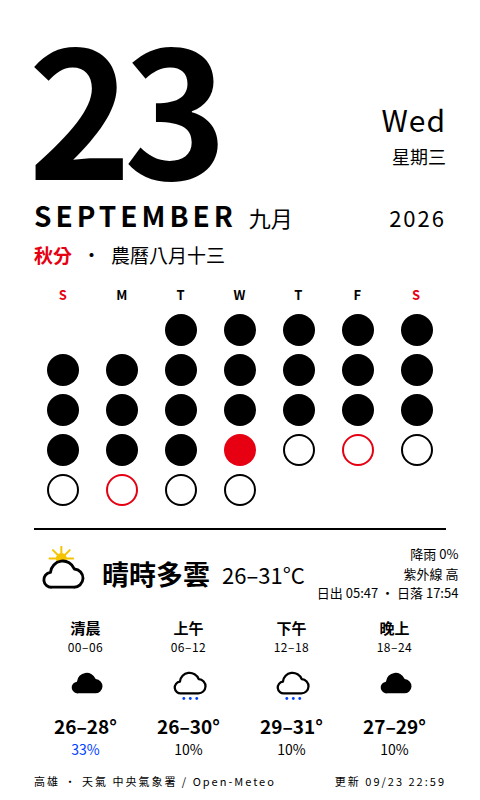
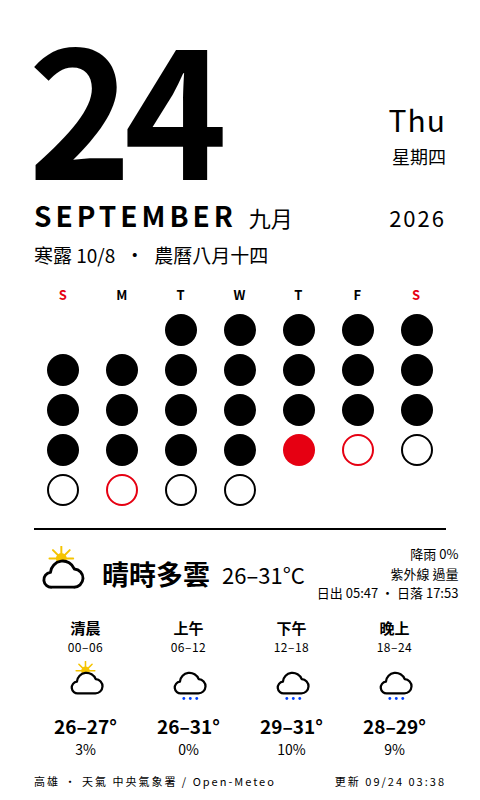
deploy: cf7d1051eb6821bc691ba0ade4beb12cdf9fe0ef

diff --git a/calendar.html b/calendar.html
@@ -47,16 +47,16 @@
 </style></head>
 <body><div class="page">
   <div class="head">
-    <div class="num">23</div>
-    <div class="wd"><div class="en">Wed</div><div class="zh">星期三</div></div>
+    <div class="num">24</div>
+    <div class="wd"><div class="en">Thu</div><div class="zh">星期四</div></div>
   </div>
   <div class="month"><span class="en">SEPTEMBER</span><span class="zh">九月</span><span class="yr">2026</span></div>
-  <div class="today"><span class="hl">秋分</span><span>·</span><span class="lunar">農曆八月十三</span></div>
-  <div class="grid"><div class="h we">S</div><div class="h">M</div><div class="h">T</div><div class="h">W</div><div class="h">T</div><div class="h">F</div><div class="h we">S</div><div class="dot empty"></div><div class="dot empty"></div><div class="dot past" title="1"></div><div class="dot past" title="2"></div><div class="dot past" title="3"></div><div class="dot past" title="4"></div><div class="dot past" title="5"></div><div class="dot past" title="6"></div><div class="dot past" title="7"></div><div class="dot past" title="8"></div><div class="dot past" title="9"></div><div class="dot past" title="10"></div><div class="dot past" title="11"></div><div class="dot past" title="12"></div><div class="dot past" title="13"></div><div class="dot past" title="14"></div><div class="dot past" title="15"></div><div class="dot past" title="16"></div><div class="dot past" title="17"></div><div class="dot past" title="18"></div><div class="dot past" title="19"></div><div class="dot past" title="20"></div><div class="dot past" title="21"></div><div class="dot past" title="22"></div><div class="dot now" title="23"></div><div class="dot future" title="24"></div><div class="dot future hol" title="25"></div><div class="dot future" title="26"></div><div class="dot future" title="27"></div><div class="dot future hol" title="28"></div><div class="dot future" title="29"></div><div class="dot future" title="30"></div></div>
+  <div class="today"><span class="lunar">寒露 10/8</span><span>·</span><span class="lunar">農曆八月十四</span></div>
+  <div class="grid"><div class="h we">S</div><div class="h">M</div><div class="h">T</div><div class="h">W</div><div class="h">T</div><div class="h">F</div><div class="h we">S</div><div class="dot empty"></div><div class="dot empty"></div><div class="dot past" title="1"></div><div class="dot past" title="2"></div><div class="dot past" title="3"></div><div class="dot past" title="4"></div><div class="dot past" title="5"></div><div class="dot past" title="6"></div><div class="dot past" title="7"></div><div class="dot past" title="8"></div><div class="dot past" title="9"></div><div class="dot past" title="10"></div><div class="dot past" title="11"></div><div class="dot past" title="12"></div><div class="dot past" title="13"></div><div class="dot past" title="14"></div><div class="dot past" title="15"></div><div class="dot past" title="16"></div><div class="dot past" title="17"></div><div class="dot past" title="18"></div><div class="dot past" title="19"></div><div class="dot past" title="20"></div><div class="dot past" title="21"></div><div class="dot past" title="22"></div><div class="dot past" title="23"></div><div class="dot now" title="24"></div><div class="dot future hol" title="25"></div><div class="dot future" title="26"></div><div class="dot future" title="27"></div><div class="dot future hol" title="28"></div><div class="dot future" title="29"></div><div class="dot future" title="30"></div></div>
   <div class="wx"><div class="line">
     <div class="wxhead"><svg viewBox="0 0 64 68" xmlns="http://www.w3.org/2000/svg"><g transform="translate(12 -4) scale(.6)"><circle cx="32" cy="32" r="11" fill="#f5c400"/><g stroke="#f5c400" stroke-width="4" stroke-linecap="round"><line x1="32" y1="32" x2="32" y2="8" transform="rotate(0 32 32)"/><line x1="32" y1="32" x2="32" y2="8" transform="rotate(45 32 32)"/><line x1="32" y1="32" x2="32" y2="8" transform="rotate(90 32 32)"/><line x1="32" y1="32" x2="32" y2="8" transform="rotate(135 32 32)"/><line x1="32" y1="32" x2="32" y2="8" transform="rotate(180 32 32)"/><line x1="32" y1="32" x2="32" y2="8" transform="rotate(225 32 32)"/><line x1="32" y1="32" x2="32" y2="8" transform="rotate(270 32 32)"/><line x1="32" y1="32" x2="32" y2="8" transform="rotate(315 32 32)"/></g></g><path d="M20 50h26a11 11 0 0 0 1-22 15 15 0 0 0-29 4 9 9 0 0 0 2 18z" fill="#fff" stroke="#000" stroke-width="3.5" stroke-linejoin="round"/></svg><span class="desc">晴時多雲</span><span class="temp">26–31°C</span>
-      <div class="meta">降雨 0%<br>紫外線 高<br>日出 05:47 · 日落 17:54</div></div>
-    <div class="slots"><div class="slot"><div class="n">清晨</div><div class="hrs">00–06</div><svg viewBox="0 0 64 68" xmlns="http://www.w3.org/2000/svg"><path d="M20 50h26a11 11 0 0 0 1-22 15 15 0 0 0-29 4 9 9 0 0 0 2 18z" fill="#000"/></svg><div class="t">26–28°</div><div class="p ">33%</div></div><div class="slot"><div class="n">上午</div><div class="hrs">06–12</div><svg viewBox="0 0 64 68" xmlns="http://www.w3.org/2000/svg"><path d="M20 50h26a11 11 0 0 0 1-22 15 15 0 0 0-29 4 9 9 0 0 0 2 18z" fill="#fff" stroke="#000" stroke-width="3.5" stroke-linejoin="round"/><g fill="#0040ff"><circle cx="24" cy="58" r="2.2"/><circle cx="34" cy="58" r="2.2"/><circle cx="44" cy="58" r="2.2"/></g></svg><div class="t">26–30°</div><div class="p dry">10%</div></div><div class="slot"><div class="n">下午</div><div class="hrs">12–18</div><svg viewBox="0 0 64 68" xmlns="http://www.w3.org/2000/svg"><path d="M20 50h26a11 11 0 0 0 1-22 15 15 0 0 0-29 4 9 9 0 0 0 2 18z" fill="#fff" stroke="#000" stroke-width="3.5" stroke-linejoin="round"/><g fill="#0040ff"><circle cx="24" cy="58" r="2.2"/><circle cx="34" cy="58" r="2.2"/><circle cx="44" cy="58" r="2.2"/></g></svg><div class="t">29–31°</div><div class="p dry">10%</div></div><div class="slot"><div class="n">晚上</div><div class="hrs">18–24</div><svg viewBox="0 0 64 68" xmlns="http://www.w3.org/2000/svg"><path d="M20 50h26a11 11 0 0 0 1-22 15 15 0 0 0-29 4 9 9 0 0 0 2 18z" fill="#000"/></svg><div class="t">27–29°</div><div class="p dry">10%</div></div></div>
+      <div class="meta">降雨 0%<br>紫外線 過量<br>日出 05:47 · 日落 17:53</div></div>
+    <div class="slots"><div class="slot"><div class="n">清晨</div><div class="hrs">00–06</div><svg viewBox="0 0 64 68" xmlns="http://www.w3.org/2000/svg"><g transform="translate(12 -4) scale(.6)"><circle cx="32" cy="32" r="11" fill="#f5c400"/><g stroke="#f5c400" stroke-width="4" stroke-linecap="round"><line x1="32" y1="32" x2="32" y2="8" transform="rotate(0 32 32)"/><line x1="32" y1="32" x2="32" y2="8" transform="rotate(45 32 32)"/><line x1="32" y1="32" x2="32" y2="8" transform="rotate(90 32 32)"/><line x1="32" y1="32" x2="32" y2="8" transform="rotate(135 32 32)"/><line x1="32" y1="32" x2="32" y2="8" transform="rotate(180 32 32)"/><line x1="32" y1="32" x2="32" y2="8" transform="rotate(225 32 32)"/><line x1="32" y1="32" x2="32" y2="8" transform="rotate(270 32 32)"/><line x1="32" y1="32" x2="32" y2="8" transform="rotate(315 32 32)"/></g></g><path d="M20 50h26a11 11 0 0 0 1-22 15 15 0 0 0-29 4 9 9 0 0 0 2 18z" fill="#fff" stroke="#000" stroke-width="3.5" stroke-linejoin="round"/></svg><div class="t">26–27°</div><div class="p dry">3%</div></div><div class="slot"><div class="n">上午</div><div class="hrs">06–12</div><svg viewBox="0 0 64 68" xmlns="http://www.w3.org/2000/svg"><path d="M20 50h26a11 11 0 0 0 1-22 15 15 0 0 0-29 4 9 9 0 0 0 2 18z" fill="#fff" stroke="#000" stroke-width="3.5" stroke-linejoin="round"/><g fill="#0040ff"><circle cx="24" cy="58" r="2.2"/><circle cx="34" cy="58" r="2.2"/><circle cx="44" cy="58" r="2.2"/></g></svg><div class="t">26–31°</div><div class="p dry">0%</div></div><div class="slot"><div class="n">下午</div><div class="hrs">12–18</div><svg viewBox="0 0 64 68" xmlns="http://www.w3.org/2000/svg"><path d="M20 50h26a11 11 0 0 0 1-22 15 15 0 0 0-29 4 9 9 0 0 0 2 18z" fill="#fff" stroke="#000" stroke-width="3.5" stroke-linejoin="round"/><g fill="#0040ff"><circle cx="24" cy="58" r="2.2"/><circle cx="34" cy="58" r="2.2"/><circle cx="44" cy="58" r="2.2"/></g></svg><div class="t">29–31°</div><div class="p dry">10%</div></div><div class="slot"><div class="n">晚上</div><div class="hrs">18–24</div><svg viewBox="0 0 64 68" xmlns="http://www.w3.org/2000/svg"><path d="M20 50h26a11 11 0 0 0 1-22 15 15 0 0 0-29 4 9 9 0 0 0 2 18z" fill="#fff" stroke="#000" stroke-width="3.5" stroke-linejoin="round"/><g fill="#0040ff"><circle cx="24" cy="58" r="2.2"/><circle cx="34" cy="58" r="2.2"/><circle cx="44" cy="58" r="2.2"/></g></svg><div class="t">28–29°</div><div class="p dry">9%</div></div></div>
   </div></div>
-  <div class="foot"><span>高雄 · 天氣 中央氣象署 / Open-Meteo</span><span>更新 09/23 22:59</span></div>
+  <div class="foot"><span>高雄 · 天氣 中央氣象署 / Open-Meteo</span><span>更新 09/24 03:38</span></div>
 </div></body></html>
